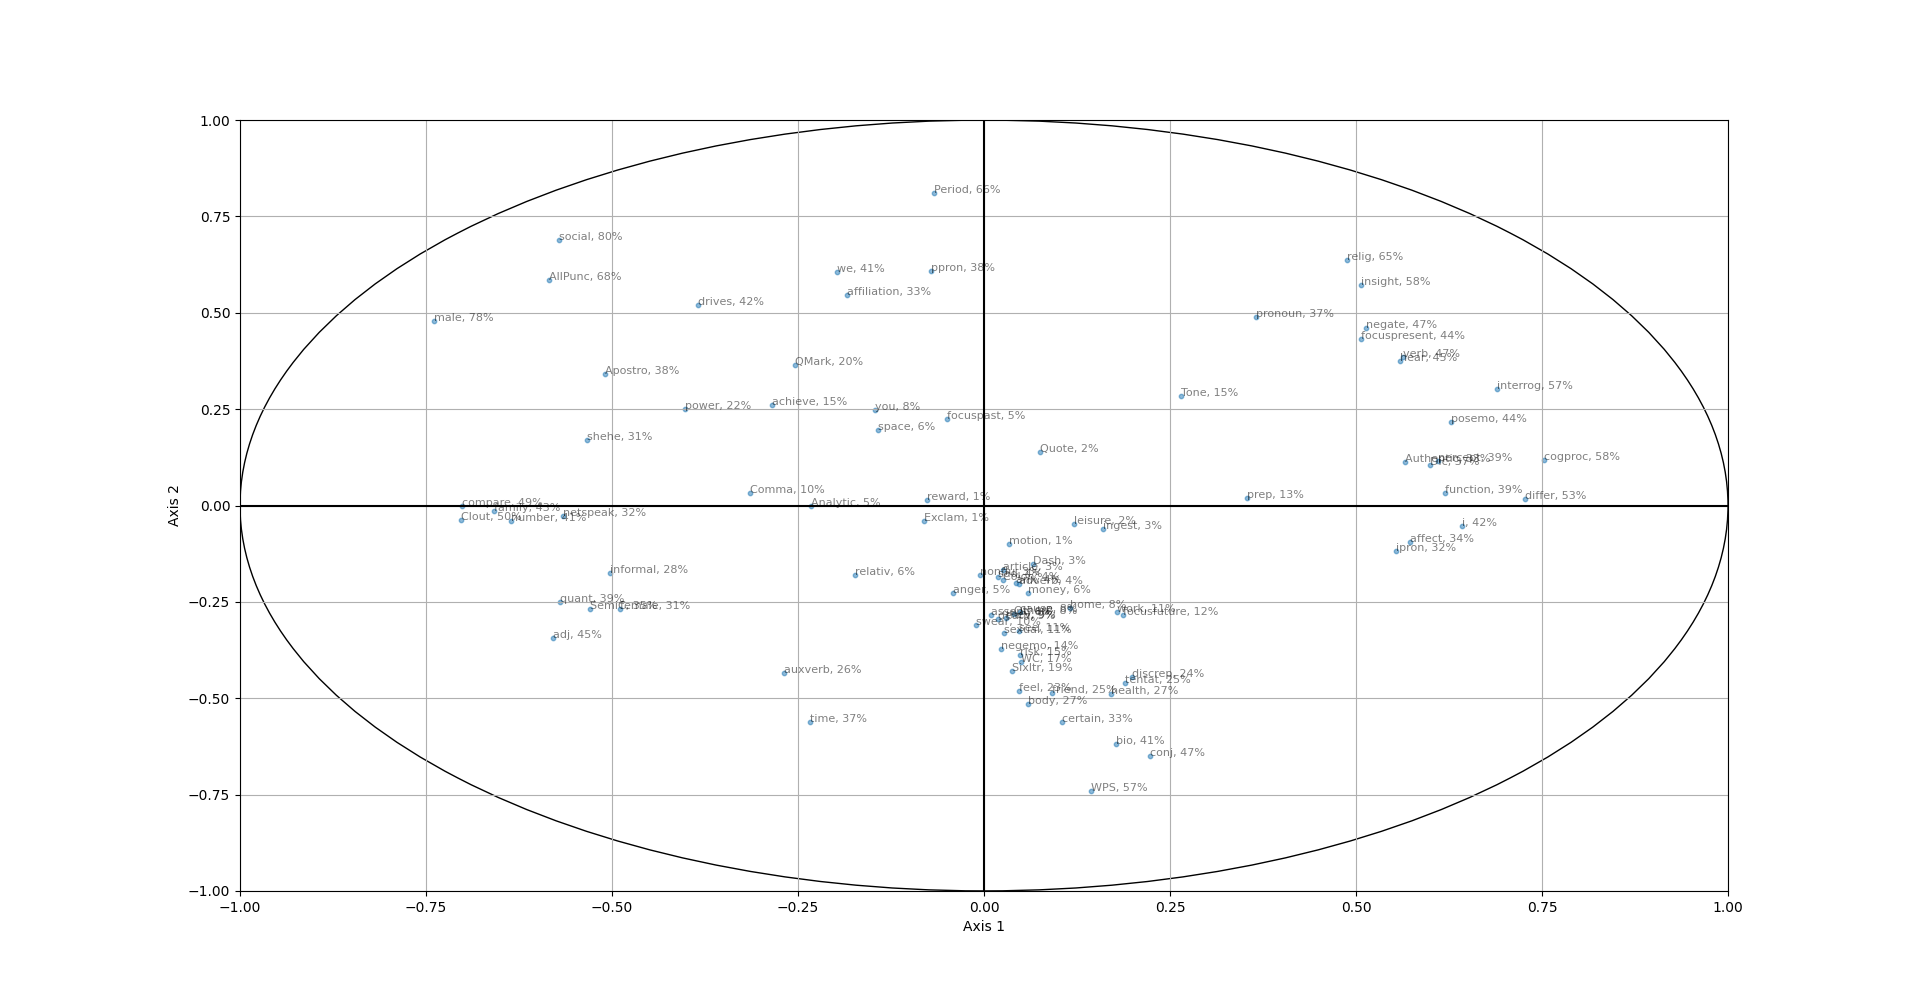
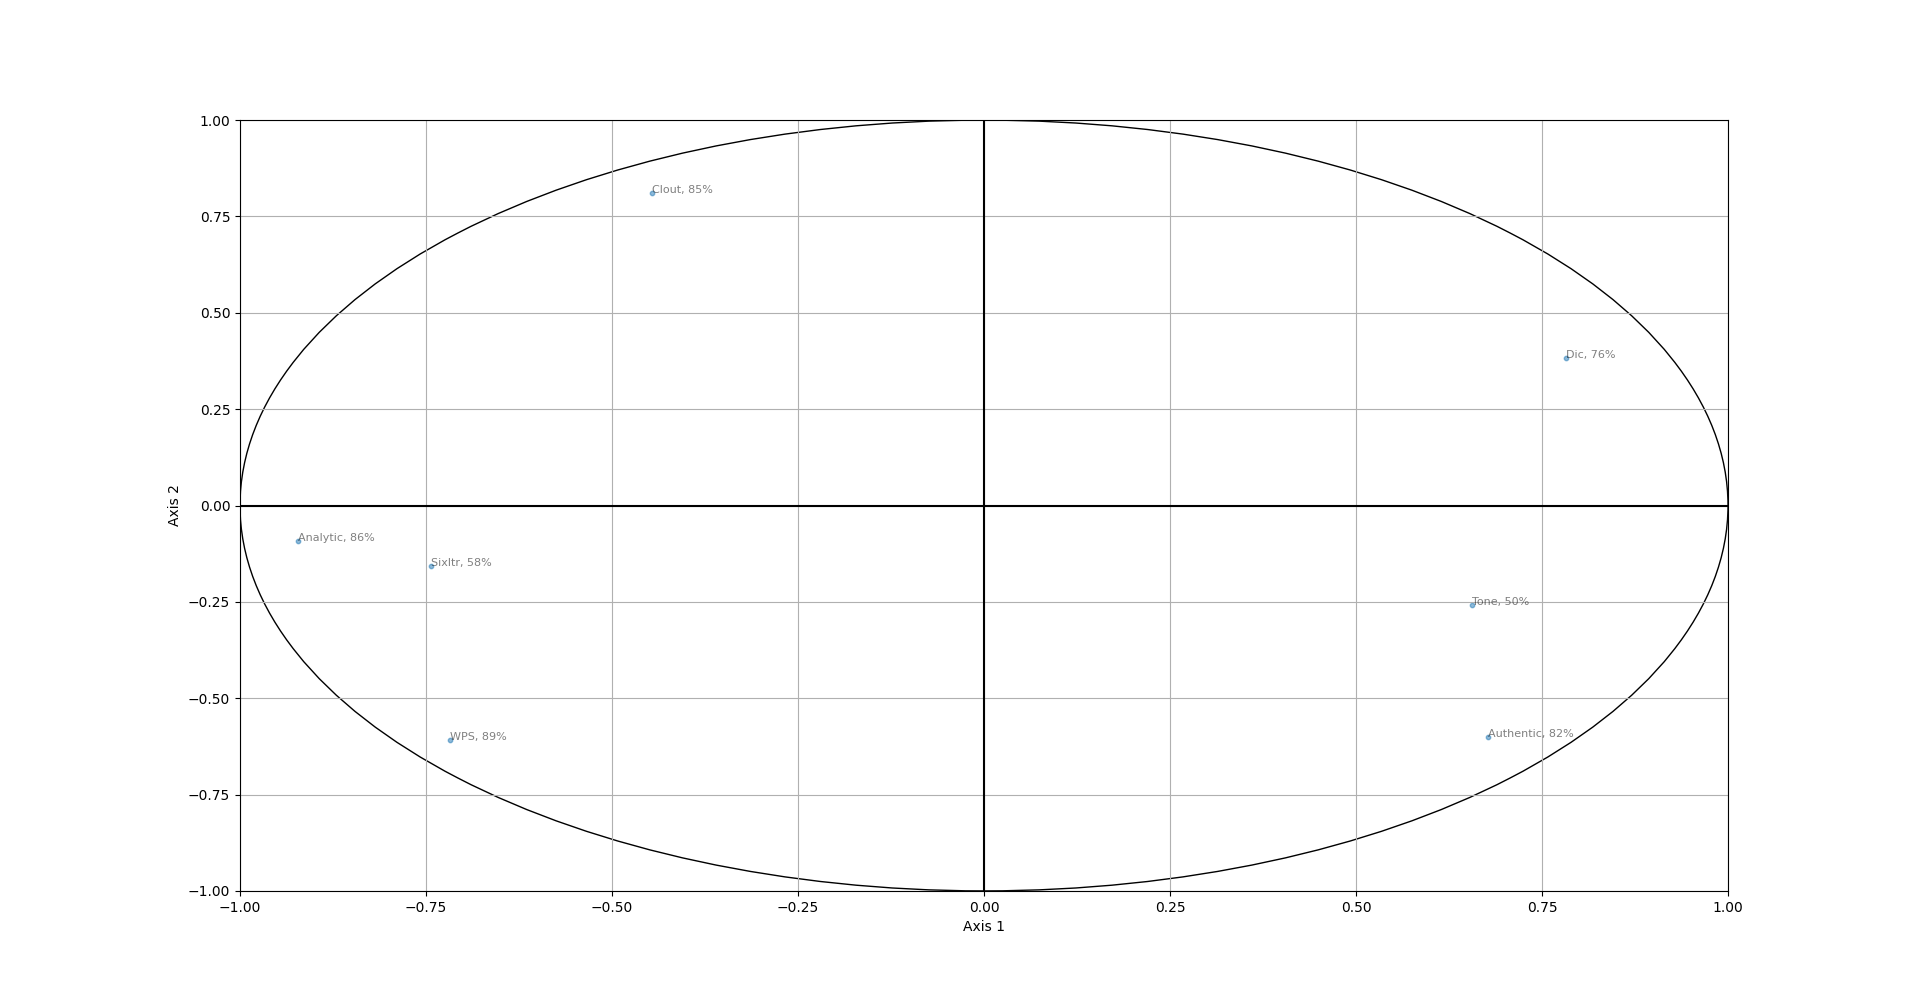
New results on Hamlet and R&J for the coarser indicators

diff --git a/2.0_LIWC_PCA.py b/2.0_LIWC_PCA.py
@@ -13,7 +13,7 @@ PCA_on_cor = True
 # Axes to focus on
 axes = (0, 1)
 # Save results df
-save_res_df = False
+save_res_df = True
 ## Kept column names
 # For "Summary Language Variable" only
 kept_col_list = ["Analytic", "Clout", "Authentic", "Tone", "WPS", "Sixltr", "Dic"]
